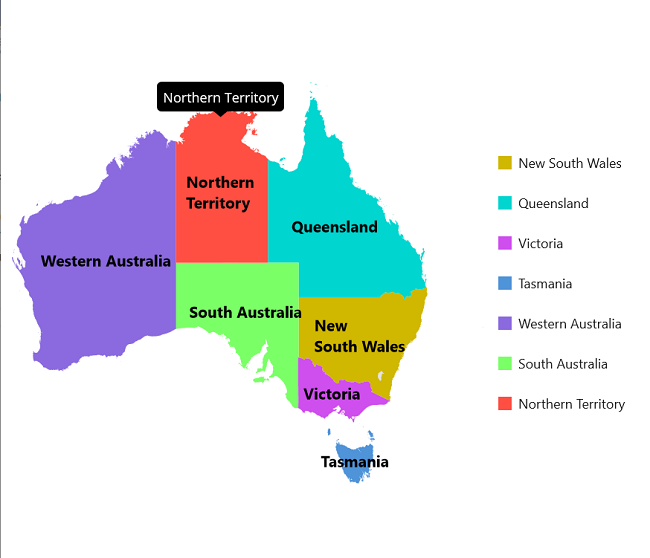
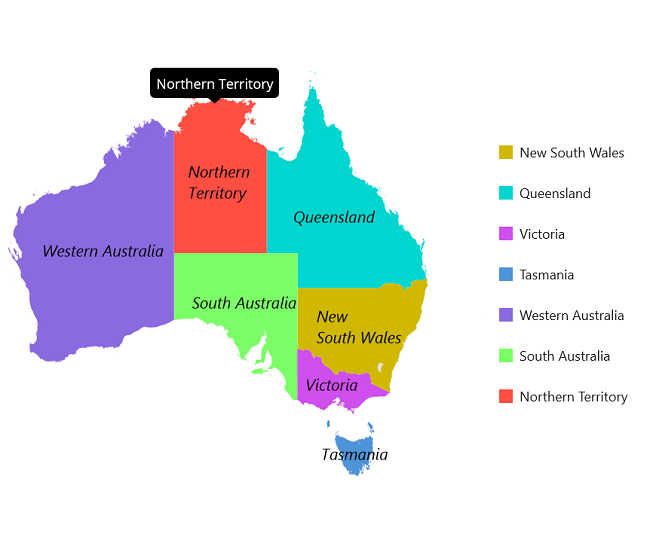
Review changes.

diff --git a/MAUI/Maps/getting-started.md b/MAUI/Maps/getting-started.md
@@ -292,7 +292,9 @@ The `ShapeDataField` property is similar to the `PrimaryValuePath` property. It 
 public MainPage()
 {
     InitializeComponent();
+
     this.BindingContext = this;
+    
     ObservableCollection<Model> Data = new ObservableCollection<Model>();
     Data.Add(new Model("New South Wales", "New\nSouth Wales"));
     Data.Add(new Model("Queensland", "Queensland"));
@@ -300,6 +302,7 @@ public MainPage()
     Data.Add(new Model("Victoria", "Victoria"));
     Data.Add(new Model("Western Australia", "Western Australia"));
     Data.Add(new Model("Tasmania", "Tasmania"));
+
     SfMaps maps = new SfMaps();
     MapShapeLayer layer = new MapShapeLayer();
     layer.ShapesSource = MapSource.FromResource("MyProject.australia.json");
@@ -377,7 +380,7 @@ Add the basic maps elements such as data labels, legend, and tooltip as shown in
                         <map:MapDataLabelSettings.DataLabelStyle>
                                 <map:MapLabelStyle FontSize="14"
                                                    TextColor="Black"
-                                                   FontAttributes="Bold" />
+                                                   FontAttributes="Italic" />
                         </map:MapDataLabelSettings.DataLabelStyle>
                 </map:MapDataLabelSettings>
             </map:MapShapeLayer.DataLabelSettings>
@@ -413,7 +416,7 @@ public MainPage()
         DataLabelStyle = new MapLabelStyle()
         {
             FontSize = 14,
-            FontAttributes = FontAttributes.Bold,
+            FontAttributes = FontAttributes.Italic,
             TextColor = Colors.Black
         },
 

diff --git a/MAUI/Maps/data-labels.md b/MAUI/Maps/data-labels.md
@@ -13,7 +13,7 @@ Data labels provides identification for the shapes by displaying their names. Yo
 
 ## Show data labels
 
-You can show data labels on the map using the `ShowDataLabels` property and customize text of the data labels using the `DataLabelPath` property. The default value of  `ShowDataLabels`  is `false`. 
+You can show data labels on the map using the `ShowDataLabels` and `DataLabelPath` properties. The `ShowDataLabels` is used to control the visibility of data labels, the `DataLabelPath` is used to decide which underline property has to be displayed as data labels. The default value of `ShowDataLabels` is `false`. 
 
 {% tabs %}
 
